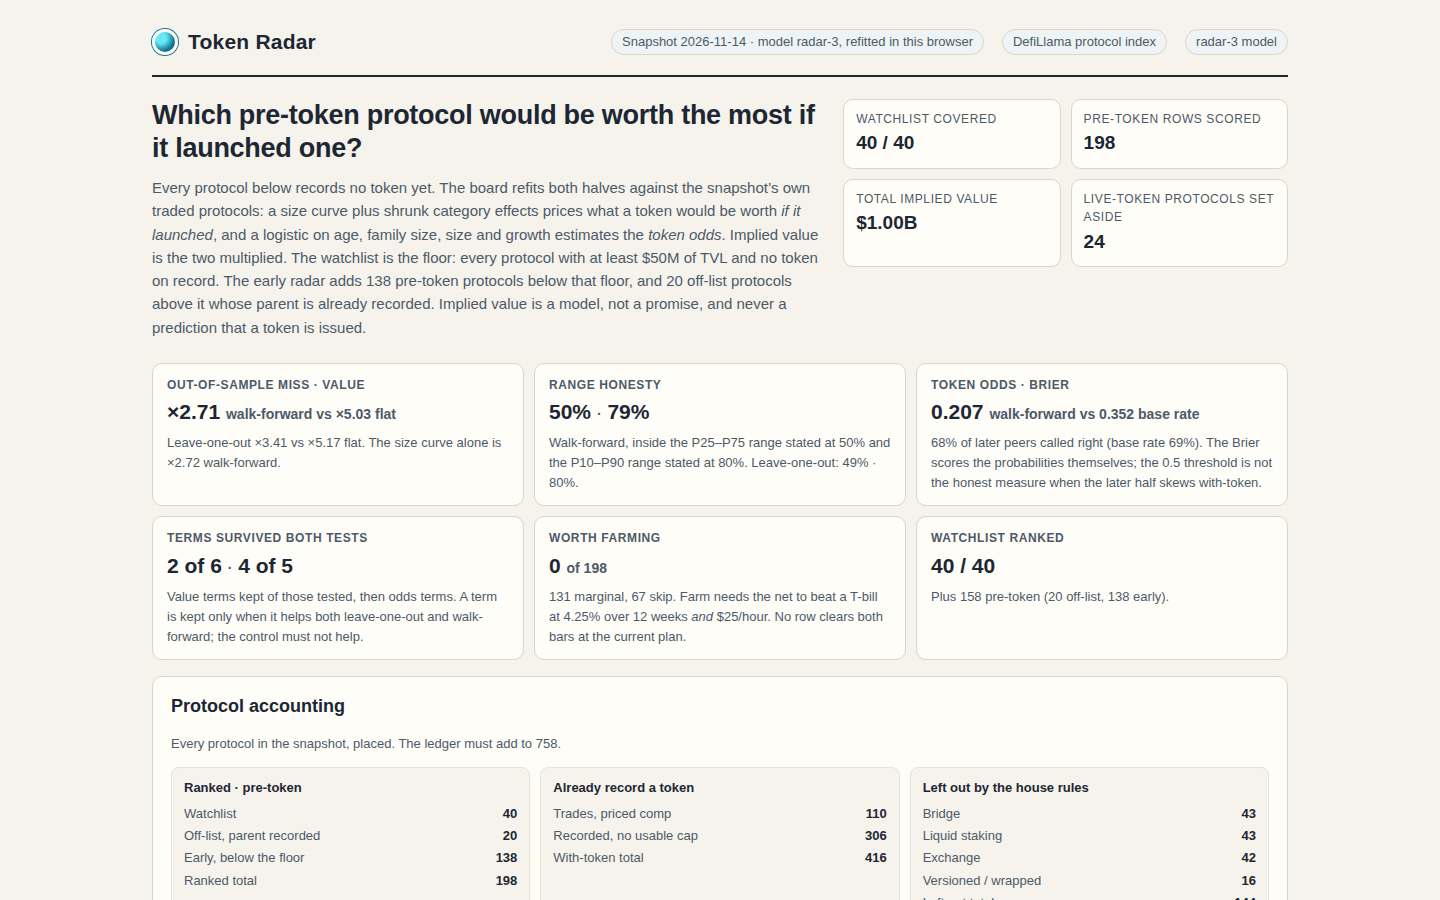
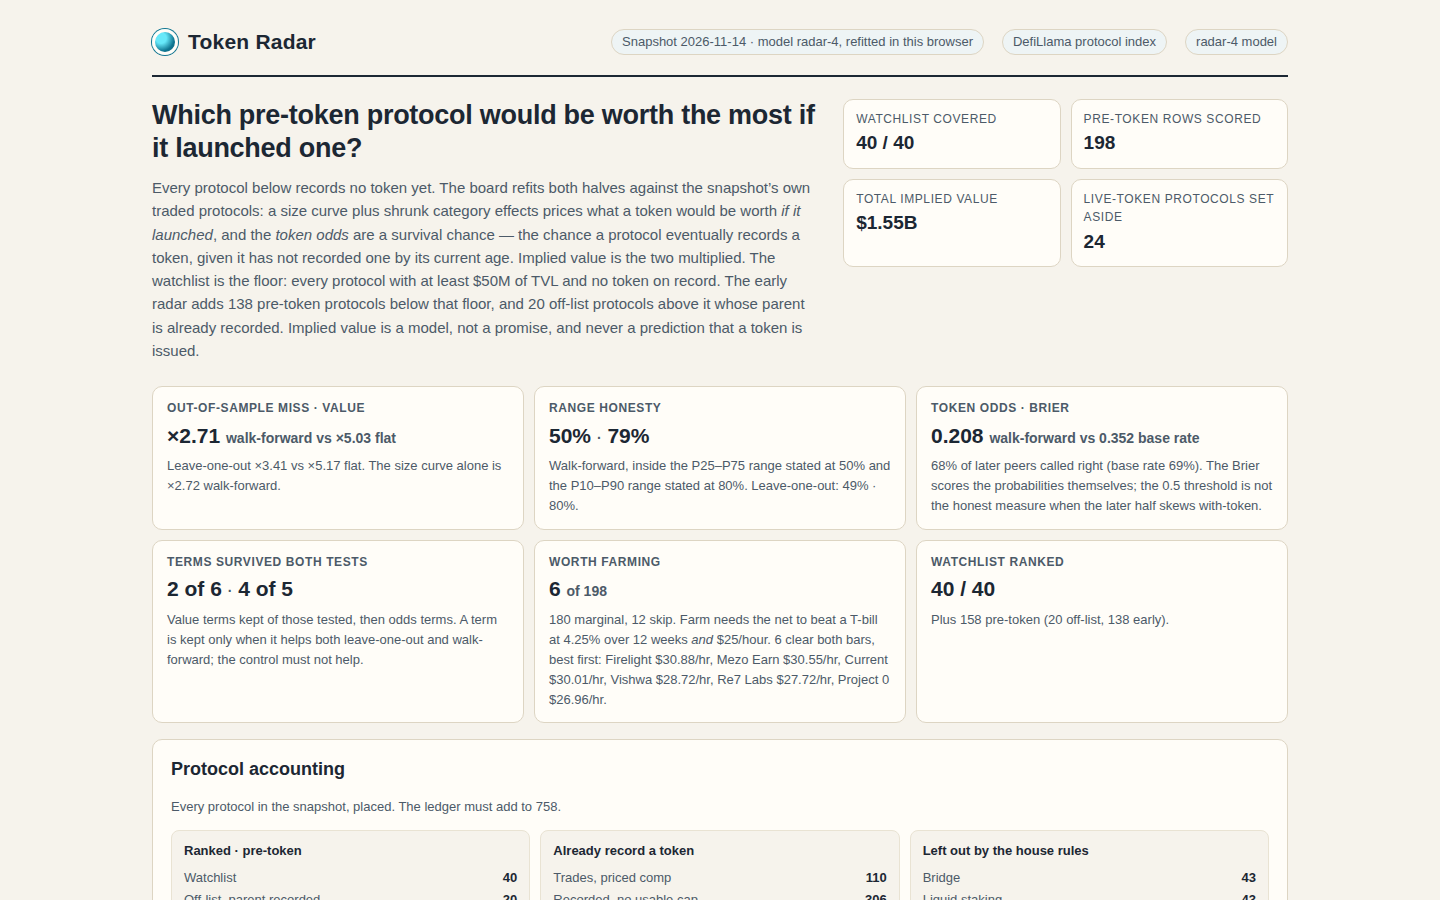
Fix Gate 2 presentation defects: dynamic farm sentence, filtered count sums, FARM list
* Fix Gate 2 presentation defects: dynamic farm sentence, filtered count sums, FARM list

* Add files via upload

diff --git a/dashboard/app.js b/dashboard/app.js
@@ -1,7 +1,4 @@
-// Token Radar dashboard, model radar-3. Reads window.RADAR (written beside
-// dashboard/ by main.ts) and renders the board, filters, stat cards, accounting,
-// evidence, a per-protocol detail view, the live-token view and category effects.
-// No network: every byte it shows is in data.js.
+// Token Radar dashboard, model radar-4. Renders the board from window.RADAR. No network.
 (function () {
   'use strict';
 
@@ -37,10 +34,9 @@
   function fmtMult(n) { return 'x' + n.toFixed(2); }
   function fmtOdds(n) { return Math.round(n * 100) + '%'; }
 
-  // radar-3 in one function: the page recomputes a row from the snapshot figures and
-  // checks the number board.json carries, so the page's code and the board's data are
-  // visibly the same arithmetic. If-launches is TVL times the size multiple times the
-  // category effect; implied is if-launches times token odds times the parent factor.
+  // The page recomputes each row from the snapshot figures and checks the number
+  // board.json carries: if-launches = TVL x size multiple x category effect,
+  // implied = if-launches x token odds x parent factor.
   function iflOf(row) {
     return Math.max(1, Math.round(row.tvl_usd * row.size_multiple * row.category_effect));
   }
@@ -48,10 +44,7 @@
     return Math.max(1, Math.round(iflOf(row) * row.token_odds * row.parent_factor));
   }
 
-  // The farm plan is the same derivation main.ts writes to board.json: a position
-  // of 0.02% of TVL capped at $10,000, an expected drop of 7.0% of the implied
-  // value (scaled by the position's share of TVL), fees and hours by primary chain,
-  // and a verdict against a T-bill and a $25/hour bar. The sliders reprice it live.
+  // The farm plan mirrors board.json: 0.02% of TVL (cap $10,000), a 7.0% drop, fees and hours by primary chain, a verdict vs a T-bill and $25/hour. The sliders reprice it live.
   function farmFor(row) {
     var m = DATA.model;
     var chain = row.chains && row.chains.length > 0 ? row.chains[0] : null;
@@ -66,8 +59,9 @@
     return { position: position, drop: drop, fees: fees, hours: hours, net: net, netPerHour: netPerHour, tbill: tbill, verdict: verdict };
   }
   function verdictCounts(list) {
-    var c = { FARM: 0, MARGINAL: 0, SKIP: 0 };
-    list.forEach(function (r) { c[farmFor(r).verdict] = (c[farmFor(r).verdict] || 0) + 1; });
+    var c = { FARM: 0, MARGINAL: 0, SKIP: 0, farm: [] };
+    list.forEach(function (r) { var f = farmFor(r); c[f.verdict]++; if (f.verdict === 'FARM') c.farm.push([r.name, f.netPerHour]); });
+    c.farm.sort(function (a, b) { return b[1] - a[1]; });
     return c;
   }
 
@@ -92,8 +86,7 @@
     return node;
   }
 
-  // The farm steps are generic guidance: category, chains, TVL and age decide the
-  // action, the capital, the hold and every cost and time. No name is special-cased.
+  // Farm steps are generic guidance from category, chains, TVL and age. No name is special-cased.
   function chainOf(p) { return p.chains && p.chains.length > 0 ? p.chains[0] : 'its main chain'; }
   function capitalFor(p) {
     if (p.tvl_usd >= 5e9) return 250;
@@ -208,9 +201,7 @@
   }
 
   function keptOf(list) {
-    // Kept terms among the tested ones: the baseline row and the placebo control
-    // do not count. Value rows are flat, size, family, category, growth, age,
-    // chain, control; odds rows are base, age, family, size, growth, chain, control.
+    // Kept terms among the tested ones; the baseline and the placebo control do not count.
     var tested = list.filter(function (e) { return e.term.indexOf('control') < 0 && e.term !== 'flat median multiple' && e.term !== 'base rate'; });
     var kept = tested.filter(function (e) { return e.kept; }).length;
     return kept + ' of ' + tested.length;
@@ -232,11 +223,11 @@
     document.getElementById('model-text').textContent =
       'Two fits score every protocol. The value fit is a joint ridge on log(market cap) against log(TVL) and the category, fit on the ' + DATA.value.traded_n +
       ' traded tokens that are not bridges, liquid staking or versioned/wrapped products: a size slope of ' + DATA.value.slope.toFixed(2) +
-      ' with a multiple of ' + fmtMult(DATA.value.mult_at_100m) + ' at $100M of TVL, and a shrunk effect per category. The odds fit is a logistic on ' +
+      ' with a multiple of ' + fmtMult(DATA.value.mult_at_100m) + ' at $100M of TVL, and a shrunk effect per category. The odds are survival-conditional: the chance a protocol eventually records a token, given it has not by its current age, (F(t_max) − F(age)) / (1 − F(age)), where F(t) is a logistic on ' +
       DATA.odds.peers_n + ' peers — the ' + DATA.accounting.ranked + ' ranked rows plus ' + (DATA.odds.peers_n - DATA.accounting.ranked) +
-      ' with-token protocols that are not left out by the house rules — on age in years, family size (how many protocols share the category), log TVL and 7-day growth. ' +
-      'Its coefficients are ' + DATA.odds.beta.map(function (b) { return b.toFixed(2); }).join(', ') + ' (intercept first), base rate ' +
-      Math.round(DATA.odds.base_rate * 100) + '%. The odds run lower than a first glance at the biggest protocols suggests, because the logistic is fit on all ' +
+      ' with-token protocols that are not left out by the house rules — on age in years, log TVL and 7-day growth, plus a per-category ridge-16 effect (families ' + DATA.evidence.bootstrap.odds_family_lo.toFixed(2) + ' to ' + DATA.evidence.bootstrap.odds_family_hi.toFixed(2) + '). ' +
+      'Its coefficients are ' + DATA.odds.beta.map(function (b) { return b.toFixed(2); }).join(', ') + ' (intercept first), t_max ' + DATA.odds.t_max_years.toFixed(2) + ' years — the oldest peer’s age — base rate ' +
+      Math.round(DATA.odds.base_rate * 100) + '%. The odds run lower than a first glance at the biggest protocols suggests, because the curve is fit on all ' +
       DATA.odds.peers_n + ' peers — including the many smaller protocols that never launch — and it trusts older, larger, slower-growing protocols most.';
     fillEvidence();
     fillCategories();
@@ -271,7 +262,8 @@
     host.appendChild(statCard('Worth farming',
       vc.FARM + ' <small>of ' + DATA.board_size + '</small>',
       vc.MARGINAL + ' marginal, ' + vc.SKIP + ' skip. Farm needs the net to beat a T-bill at ' + (DATA.model.tbill_annual * 100).toFixed(2) +
-      '% over ' + state.plan.horizon + ' weeks <i>and</i> $' + DATA.model.farm_hourly_usd + '/hour. No row clears both bars at the current plan.'));
+      '% over ' + state.plan.horizon + ' weeks <i>and</i> $' + DATA.model.farm_hourly_usd + '/hour. ' +
+      (vc.farm.length ? vc.farm.length + ' clear both bars, best first: ' + vc.farm.map(function (f) { return f[0] + ' ' + fmtMoney(f[1]) + '/hr'; }).join(', ') + '.' : 'No row clears both bars at the current plan.')));
     host.appendChild(statCard('Watchlist ranked',
       DATA.accounting.watchlist + ' / ' + DATA.watchlist_size,
       'Plus ' + (DATA.accounting.off_list + DATA.accounting.early) + ' pre-token (' + DATA.accounting.off_list + ' off-list, ' + DATA.accounting.early + ' early).'));
@@ -307,9 +299,7 @@
     });
   }
 
-  // The top-pick spotlight: the rank-1 row, rendered from the same data as the
-  // board. Every number comes from DATA.rows[0]; no name is special-cased and no
-  // figure is hand-written. It answers: how big, why it ranks first, the catch.
+  // The top-pick spotlight: the rank-1 row, rendered from the same data as the board.
   function fillTopPick() {
     var host = document.getElementById('top-pick-body');
     if (!host) return;
@@ -342,8 +332,8 @@
       el('b', { text: 'Why it ranks #1: ' }),
       'the biggest TVL on the board (' + fmtUsd(r.tvl_usd) + ') priced at ' + fmtUsd(r.if_launches_usd) +
       ' if it launched — TVL × a size multiple of ' + r.size_multiple.toFixed(4) + ' × a ' + (r.category || 'Other') + ' effect of ' + r.category_effect.toFixed(3) +
-      ' — times token odds of ' + fmtOdds(r.token_odds) + ' from ' + fmtAge(r.age_days) + ' of no-token history, ' + r.family_size +
-      ' protocols in its family, ' + fmtUsd(r.tvl_usd) + ' of TVL and a ' + fmtPct(r.change_7d) + ' week. ' +
+      ' — times token odds of ' + fmtOdds(r.token_odds) + ': a survival chance from ' + fmtAge(r.age_days) + ' of no-token history, a ' + (r.category || 'Other') + ' effect of ' + r.family_effect.toFixed(2) +
+      ', ' + fmtUsd(r.tvl_usd) + ' of TVL and a ' + fmtPct(r.change_7d) + ' week. ' +
       fmtUsd(r.if_launches_usd) + ' × ' + fmtOdds(r.token_odds) + ' ≈ ' + fmtUsd(r.implied_value_usd) + '.'
     ));
     host.appendChild(el('p', { class: 'hero-verdict' },
@@ -394,7 +384,7 @@
       '. Odds in log-odds: years listed +' + b.odds_age.toFixed(2) + ' ± ' + b.odds_age_se.toFixed(2) +
       '; TVL +' + b.odds_tvl.toFixed(2) + ' ± ' + b.odds_tvl_se.toFixed(2) +
       '; 7-day growth ' + b.odds_growth.toFixed(1) + ' ± ' + b.odds_growth_se.toFixed(1) +
-      '; families +' + b.odds_family.toFixed(2) + ' ± ' + b.odds_family_se.toFixed(3) + '.';
+      '; family effects ' + b.odds_family_lo.toFixed(2) + ' to ' + b.odds_family_hi.toFixed(2) + ' (ridge 16; that range’s width varies ±' + b.odds_family_spread_se.toFixed(2) + ' over ' + b.refits + ' refits).';
   }
 
   function fillCategories() {
@@ -473,7 +463,9 @@
   function boardTable() {
     var list = sortedRows(rows());
     var vc = verdictCounts(DATA.rows);
-    document.getElementById('count').textContent = list.length + ' of ' + DATA.board_size + ' rows · ' + fmtUsd(DATA.accounting.total_tvl_usd) + ' TVL · ' + fmtUsd(DATA.accounting.total_implied_usd) + ' implied';
+    var st = [0, 0];
+    list.forEach(function (r) { st[0] += r.tvl_usd; st[1] += r.implied_value_usd; });
+    document.getElementById('count').textContent = list.length + ' of ' + DATA.board_size + ' rows · ' + fmtUsd(st[0]) + ' TVL · ' + fmtUsd(st[1]) + ' implied';
     document.querySelectorAll('#verdict-tabs button').forEach(function (btn) {
       var v = btn.getAttribute('data-verdict');
       btn.setAttribute('aria-selected', state.verdict === v ? 'true' : 'false');
@@ -605,9 +597,9 @@
         el('div', null, el('span', { text: 'Implied value' }), el('b', { class: 'num', text: fmtUsd(row.implied_value_usd) })),
         el('div', null, el('span', { text: 'Range' }), el('b', { class: 'num', text: fmtUsd(row.range_lo_usd) + ' – ' + fmtUsd(row.range_hi_usd) }))
       ),
-      el('p', { class: 'sub', text: 'Model ' + DATA.model_version + ': the same function scores every protocol. The odds are a logistic on age ' +
-        row.age_years.toFixed(2) + 'y × ' + b[1].toFixed(2) + ', family size ' + row.family_size + ' × ' + b[2].toFixed(2) + ', log TVL × ' + b[3].toFixed(2) +
-        ', 7-day growth ' + (row.growth_frac * 100).toFixed(1) + '% × ' + b[4].toFixed(1) + ', intercept ' + b[0].toFixed(2) + '. ' +
+      el('p', { class: 'sub', text: 'Model ' + DATA.model_version + ': the same function scores every protocol. Token odds are survival-conditional: (F(t_max) − F(age)) / (1 − F(age)), where F(t) is a logistic on age ' +
+        row.age_years.toFixed(2) + 'y × ' + b[1].toFixed(2) + ', log TVL × ' + b[2].toFixed(2) + ', 7-day growth ' + (row.growth_frac * 100).toFixed(1) + '% × ' + b[3].toFixed(1) + ', intercept ' + b[0].toFixed(2) + ', plus a ' + (row.category || 'Other') + ' effect of ' + row.family_effect.toFixed(2) + '. ' +
+        'F(age) = ' + (row.odds_f_age * 100).toFixed(1) + '%, F(t_max) = ' + (row.odds_f_max * 100).toFixed(1) + '% at t_max ' + DATA.odds.t_max_years.toFixed(2) + 'y, so the odds are ' + fmtOdds(row.token_odds) + '. ' +
         'The page recomputes this row as ' + fmtUsd(recomputedIfl) + ' if it launched and ' + fmtUsd(recomputed) + ' implied' +
         (recomputed === row.implied_value_usd && recomputedIfl === row.if_launches_usd ? ', the same numbers board.json carries.' : ', which differ from the board: the data would be stale.') +
         (row.parent_factor !== 1 ? ' The 0.48 parent factor applies because this is an off-list sub-product above the floor whose parent is already recorded.' : '') +
